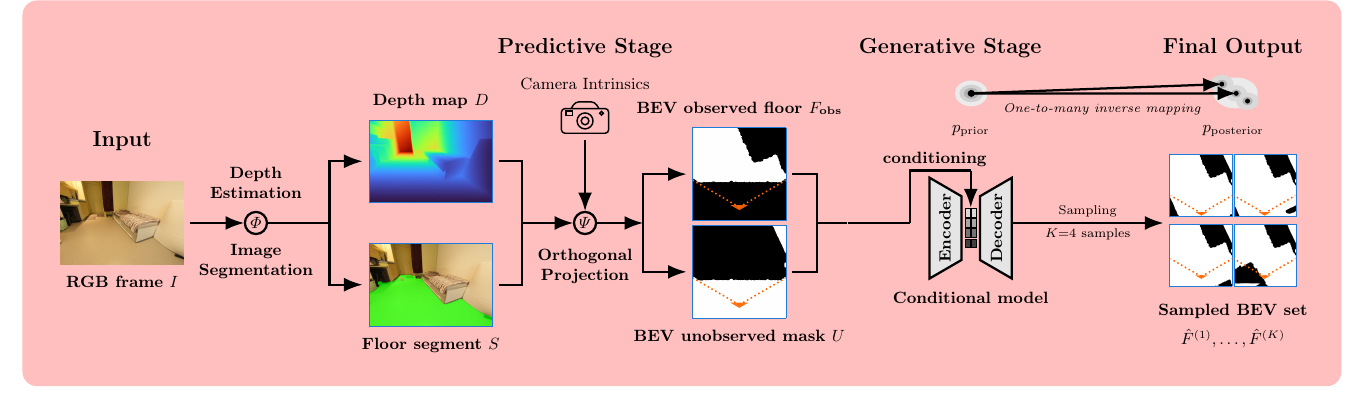
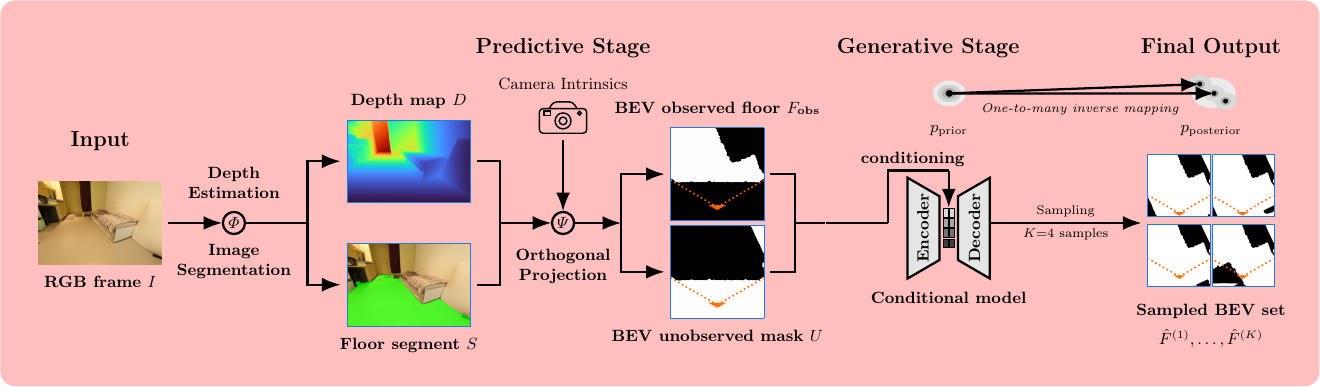
Correct pipeline crop and hero montage

diff --git a/index.html b/index.html
@@ -45,12 +45,26 @@
         display: grid;
         align-items: end;
         overflow: hidden;
-        background: url("docs/assets/readme/data_acquisition_rgb.png") center 54% / cover no-repeat;
+        background: #090b0d;
         color: #fff;
+      }
+
+      .hero-montage {
+        position: absolute;
+        z-index: 0;
+        inset: 0;
+      }
+
+      .hero-montage img {
+        width: 100%;
+        height: 100%;
+        object-fit: cover;
+        object-position: center;
       }
 
       .hero::before {
         position: absolute;
+        z-index: 1;
         inset: 0;
         content: "";
         background:
@@ -66,7 +80,7 @@
 
       .hero-inner {
         position: relative;
-        z-index: 1;
+        z-index: 2;
         padding: 96px 0 58px;
       }
 
@@ -512,7 +526,16 @@
       @media (max-width: 820px) {
         .hero {
           min-height: 78vh;
-          background-position: 62% center;
+        }
+
+        .hero-montage img {
+          object-position: 42% center;
+        }
+
+        .hero::before {
+          background:
+            linear-gradient(90deg, rgba(4, 7, 9, 0.9) 0%, rgba(4, 7, 9, 0.66) 100%),
+            linear-gradient(180deg, rgba(4, 7, 9, 0.12) 0%, rgba(4, 7, 9, 0.82) 100%);
         }
 
         .hero-inner {
@@ -565,6 +588,9 @@
   </head>
   <body>
     <header class="hero">
+      <div class="hero-montage" aria-hidden="true">
+        <img src="docs/assets/readme/hero_rgb_montage.png" alt="">
+      </div>
       <div class="hero-inner">
         <div class="hero-main">
           <p class="eyebrow">ECCV 2026 dataset and benchmark</p>
